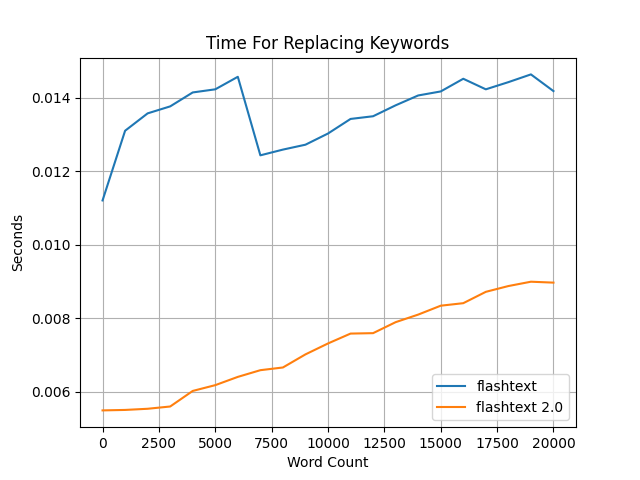
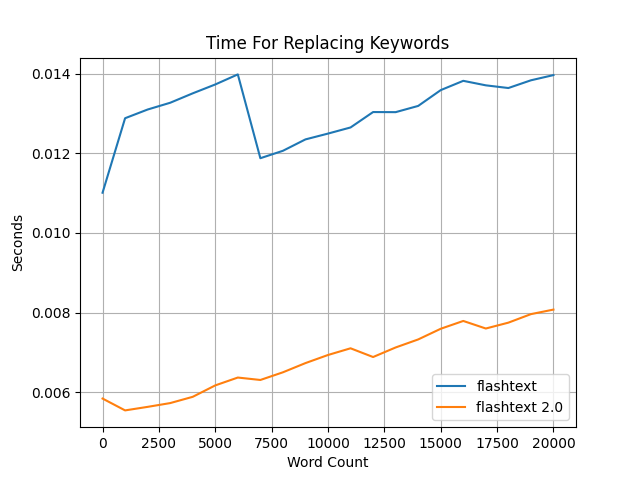
Updated 'replace_keywords()' to use a mutable string buffer

diff --git a/flashtext2/keyword_processor.py b/flashtext2/keyword_processor.py
@@ -1,5 +1,6 @@
 from __future__ import annotations
 
+import io
 import itertools
 from typing import Iterator, Literal, overload
 
@@ -175,11 +176,12 @@ class KeywordProcessor(TrieDict):
         :param sentence: str
         :return: new sentence with the words replaced
         """
-        # TODO: use IoString instead
-        s = ''
+        s = io.StringIO()
         prev_end = 0
         for kw, start, end in self._extract_keywords_with_span_iter(sentence=sentence):
-            s += sentence[prev_end:start] + kw
+            s.write(sentence[prev_end:start] + kw)
             prev_end = end
+
         # after replacing all the keywords we need to get the text between the last keyword and the end of the sentence
-        return s + sentence[prev_end:]
+        s.write(sentence[prev_end:])
+        return s.getvalue()
